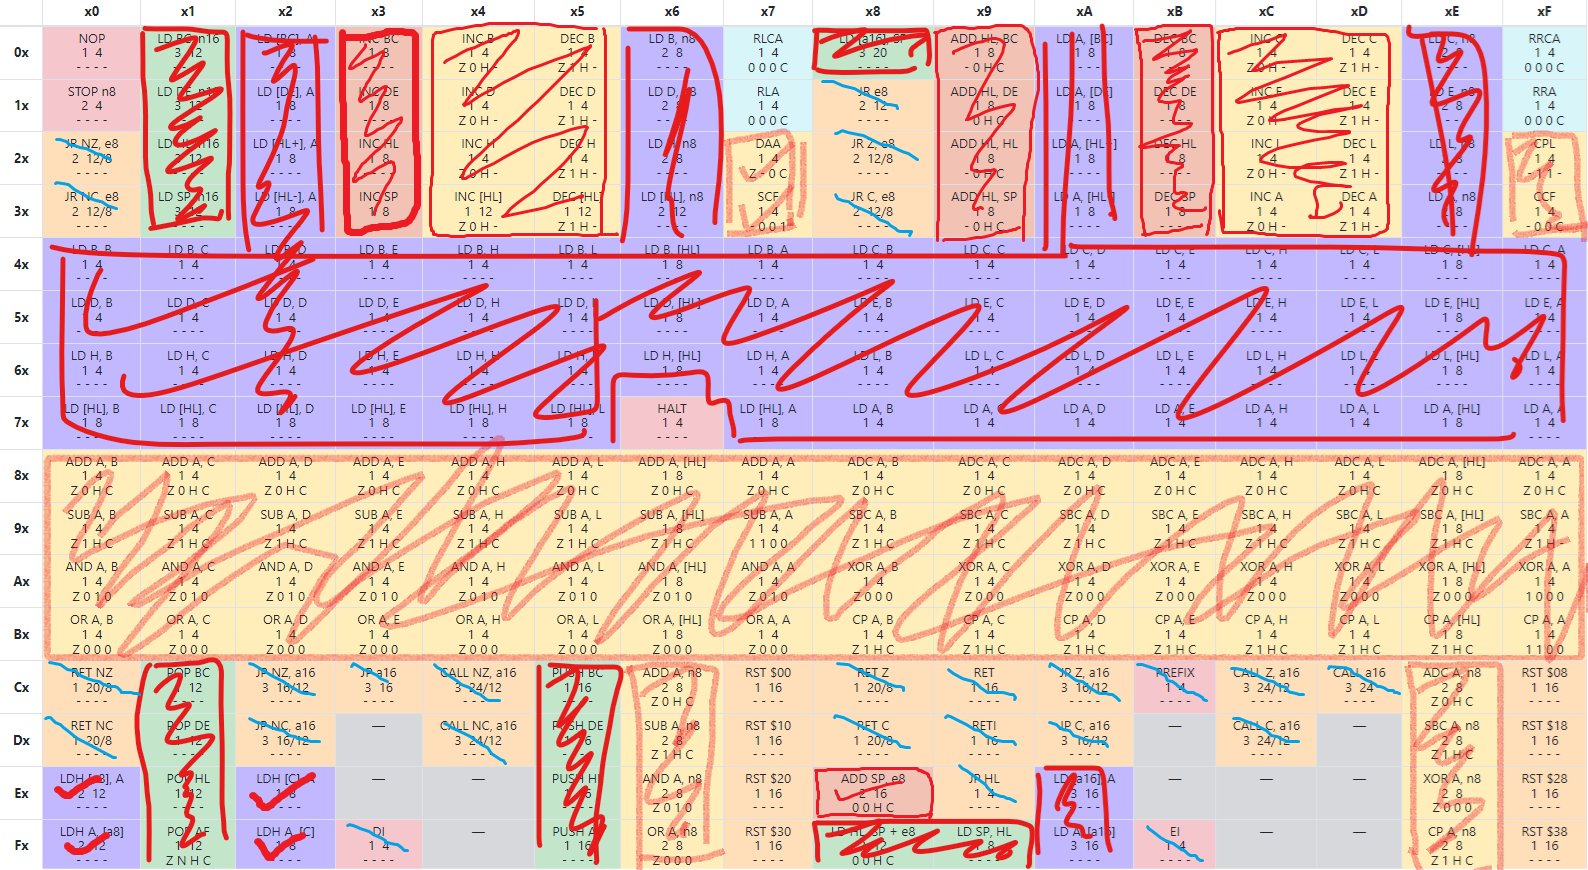
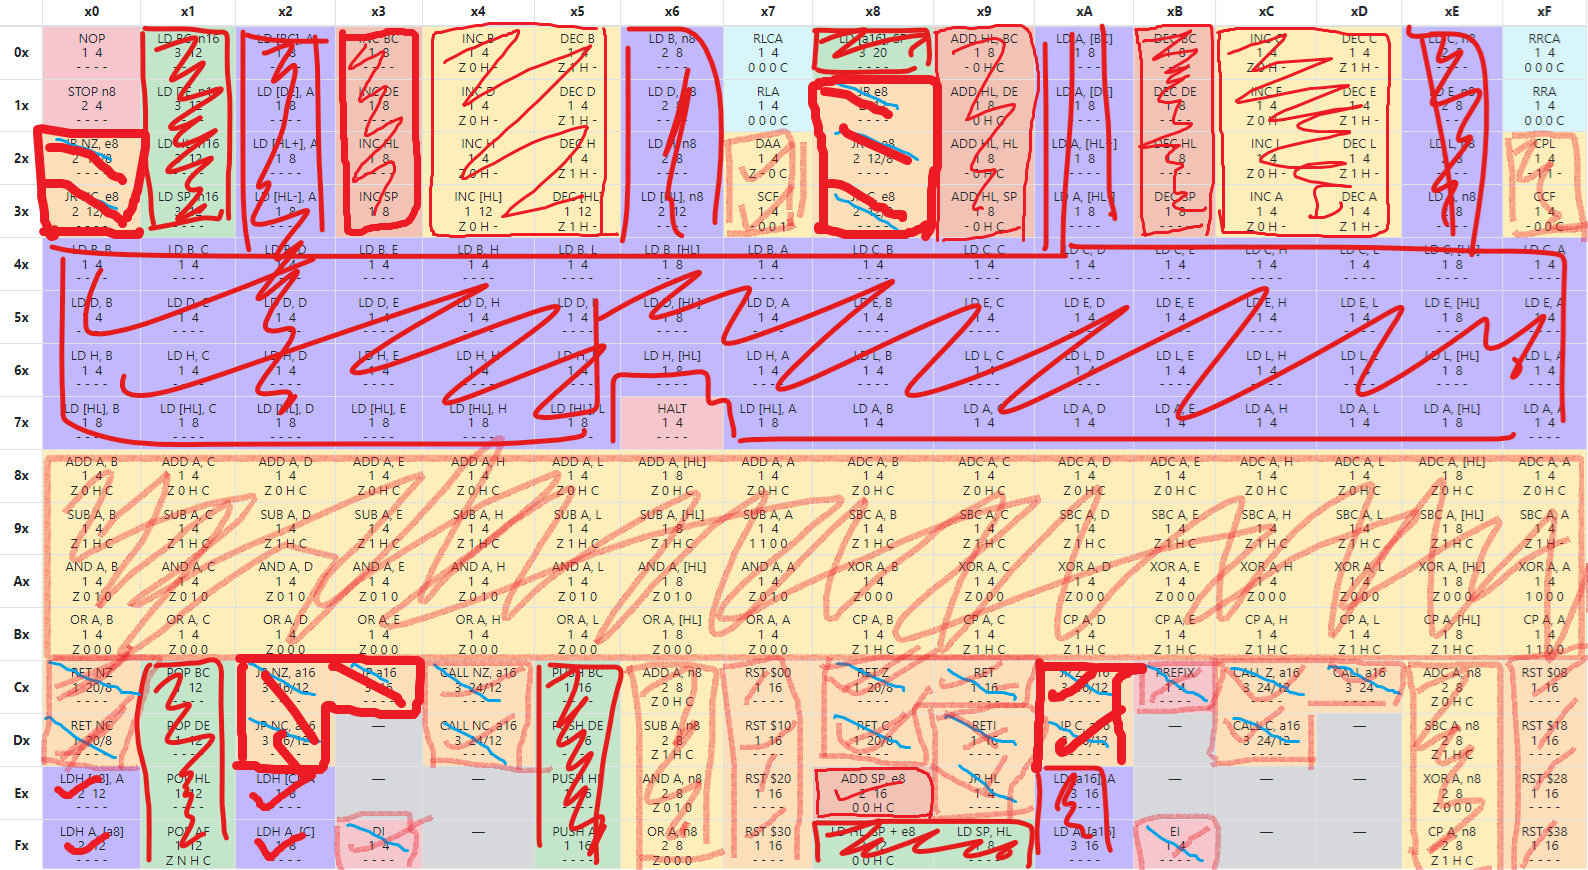
[SM83] All unprefixed opcodes done

diff --git a/SM83.cpp b/SM83.cpp
@@ -83,7 +83,7 @@ void SM83::clock() {
         if (opcode == 0xcb) {
             opcode = read(pc++);
             additional_clock_cycles = (this->*prefixed_opcode_lookup[opcode].operate)();
-            cycles = prefixed_opcode_lookup[opcode].cycles + additional_clock_cycles + 4; // + 4 is for the CB instruction cycles.
+            cycles = prefixed_opcode_lookup[opcode].cycles + additional_clock_cycles + prefixed_opcode_lookup[0xcb].cycles;
         } else {
             additional_clock_cycles = (this->*unprefixed_opcode_lookup[opcode].operate)();
             cycles = unprefixed_opcode_lookup[opcode].cycles + additional_clock_cycles;
@@ -541,6 +541,16 @@ uint8_t SM83::CALL(OperandName condition, Operand address) {
     return 12;
 }
 
+uint8_t SM83::RST(uint8_t address_lo) {
+    
+    PUSH({PC, true});
+    pc = (uint16_t)address_lo;
+
+    updateRegisters8();
+    return 0;
+
+}
+
 
 uint8_t SM83::RETURNFROMFUNCTION() {
     POP({PC, true});
@@ -639,7 +649,7 @@ uint8_t SM83::INC_D() { return PROCESS_ALU({D, true}, INC); }
 uint8_t SM83::DEC_D() { return PROCESS_ALU({D, true}, DEC); }
 uint8_t SM83::LD_D_n8() { return LD({D, true}, {N8, true}); }
 uint8_t SM83::RLA() { return 0; }
-uint8_t SM83::JR_e8() { return 0; }
+uint8_t SM83::JR_e8() { return JUMPTO({E8, true}); }
 uint8_t SM83::ADD_HL_DE() { return PROCESS_ALU16({HL, true}, {DE, true}, ADD); }
 uint8_t SM83::LD_A_aDE() { return LD({A, true}, {DE, false}); }
 uint8_t SM83::DEC_DE() { return PROCESS_ALU16({DE, true}, DEC); }
@@ -647,7 +657,7 @@ uint8_t SM83::INC_E() { return PROCESS_ALU({E, true}, INC); }
 uint8_t SM83::DEC_E() { return PROCESS_ALU({E, true}, DEC); }
 uint8_t SM83::LD_E_n8() { return LD({E, true}, {N8, true}); }
 uint8_t SM83::RRA() { return 0; }
-uint8_t SM83::JR_NZ_e8() { return 0; }
+uint8_t SM83::JR_NZ_e8() { return JUMPTO(NZ, {E8, true}); }
 uint8_t SM83::LD_HL_n16() { return LD16({HL, true}, {N16, true}); }
 uint8_t SM83::LD_aHLI_A() { return LD({HL, false, .increment=true}, {A, true}); }
 uint8_t SM83::INC_HL() { return PROCESS_ALU16({HL, true}, INC); }
@@ -655,7 +665,7 @@ uint8_t SM83::INC_H() { return PROCESS_ALU({H, true}, INC); }
 uint8_t SM83::DEC_H() { return PROCESS_ALU({H, true}, DEC); }
 uint8_t SM83::LD_H_n8() { return LD({H, true}, {N8, true}); }
 uint8_t SM83::DAA() { return PROCESS_ALU(enumDAA); }
-uint8_t SM83::JR_Z_e8() { return 0; }
+uint8_t SM83::JR_Z_e8() { return JUMPTO(Z, {E8, true}); }
 uint8_t SM83::ADD_HL_HL() { return PROCESS_ALU16({HL, true}, {HL, true}, ADD); }
 uint8_t SM83::LD_A_aHLI() { return LD({A, true}, {HL, false, .increment=true}); }
 uint8_t SM83::DEC_HL() { return PROCESS_ALU16({HL, true}, DEC); }
@@ -663,7 +673,7 @@ uint8_t SM83::INC_L() { return PROCESS_ALU({L, true}, INC); }
 uint8_t SM83::DEC_L() { return PROCESS_ALU({L, true}, DEC); }
 uint8_t SM83::LD_L_n8() { return LD({L, true}, {N8, true}); }
 uint8_t SM83::CPL() { return PROCESS_ALU(enumCPL); }
-uint8_t SM83::JR_NC_e8() { return 0; }
+uint8_t SM83::JR_NC_e8() { return JUMPTO(NC, {E8, true}); }
 uint8_t SM83::LD_SP_n16() { return LD16({SP, true}, {N16, true}); }
 uint8_t SM83::LD_aHLD_A() { return LD({HL, false, .decrement=true}, {A, true}); }
 uint8_t SM83::INC_SP() { return PROCESS_ALU16({SP, true}, INC); }
@@ -671,7 +681,7 @@ uint8_t SM83::INC_aHL() { return PROCESS_ALU({HL, false}, INC); }
 uint8_t SM83::DEC_aHL() { return PROCESS_ALU({HL, false}, DEC); }
 uint8_t SM83::LD_aHL_n8() { return LD({HL, false}, {N8, true}); }
 uint8_t SM83::SCF() { return PROCESS_ALU(enumSCF); }
-uint8_t SM83::JR_C_e8() { return 0; }
+uint8_t SM83::JR_C_e8() { return JUMPTO(C, {E8, true}); }
 uint8_t SM83::ADD_HL_SP() { return PROCESS_ALU16({HL, true}, {SP, true}, ADD); }
 uint8_t SM83::LD_A_aHLD() { return LD({A, true}, {HL, false, .decrement=true}); }
 uint8_t SM83::DEC_SP() { return PROCESS_ALU16({SP, true}, DEC); }
@@ -807,35 +817,35 @@ uint8_t SM83::CP_A_H() { return PROCESS_ALU({A, true}, {H, true}, CP); }
 uint8_t SM83::CP_A_L() { return PROCESS_ALU({A, true}, {L, true}, CP); }
 uint8_t SM83::CP_A_aHL() { return PROCESS_ALU({A, true}, {HL, false}, CP); }
 uint8_t SM83::CP_A_A() { return PROCESS_ALU({A, true}, {A, true}, CP); }
-uint8_t SM83::RET_NZ() { return 0; }
+uint8_t SM83::RET_NZ() { return RETURNFROMFUNCTION(NZ); }
 uint8_t SM83::POP_BC() { return POP({BC, true}); }
-uint8_t SM83::JP_NZ_a16() { return 0; }
-uint8_t SM83::JP_a16() { return 0; }
-uint8_t SM83::CALL_NZ_a16() { return 0; }
+uint8_t SM83::JP_NZ_a16() { return JUMPTO(NZ, {A16, true}); }
+uint8_t SM83::JP_a16() { return JUMPTO({A16, true}); }
+uint8_t SM83::CALL_NZ_a16() { return CALL(NZ, {A16, true}); }
 uint8_t SM83::PUSH_BC() { return PUSH({BC, true}); }
 uint8_t SM83::ADD_A_n8() { return PROCESS_ALU({A, true}, {N8, true}, ADD); }
 uint8_t SM83::RST_00() { return 0; }
-uint8_t SM83::RET_Z() { return 0; }
+uint8_t SM83::RET_Z() { return RETURNFROMFUNCTION(Z); }
 uint8_t SM83::RET() { return 0; }
-uint8_t SM83::JP_Z_a16() { return 0; }
+uint8_t SM83::JP_Z_a16() { return JUMPTO(Z, {A16, true}); }
 uint8_t SM83::PREFIX() { return 0; }
-uint8_t SM83::CALL_Z_a16() { return 0; }
-uint8_t SM83::CALL_a16() { return 0; }
+uint8_t SM83::CALL_Z_a16() { return CALL(Z, {A16, true}); }
+uint8_t SM83::CALL_a16() { return CALL({A16, true}); }
 uint8_t SM83::ADC_A_n8() { return PROCESS_ALU({A, true}, {N8, true}, ADC); }
 uint8_t SM83::RST_08() { return 0; }
-uint8_t SM83::RET_NC() { return 0; }
+uint8_t SM83::RET_NC() { return RETURNFROMFUNCTION(NC); }
 uint8_t SM83::POP_DE() { return POP({DE, true}); }
-uint8_t SM83::JP_NC_a16() { return 0; }
+uint8_t SM83::JP_NC_a16() { return JUMPTO(NC, {A16, true}); }
 uint8_t SM83::ILLEGAL_D3() { return 0; }
-uint8_t SM83::CALL_NC_a16() { return 0; }
+uint8_t SM83::CALL_NC_a16() { return CALL(NC, {A16, true}); }
 uint8_t SM83::PUSH_DE() { return PUSH({DE, true}); }
 uint8_t SM83::SUB_A_n8() { return PROCESS_ALU({A, true}, {N8, true}, SUB); }
 uint8_t SM83::RST_10() { return 0; }
-uint8_t SM83::RET_C() { return 0; }
-uint8_t SM83::RETI() { return 0; }
-uint8_t SM83::JP_C_a16() { return 0; }
+uint8_t SM83::RET_C() { return RETURNFROMFUNCTION(C); }
+uint8_t SM83::RETI() { return RETURNANDEI(); }
+uint8_t SM83::JP_C_a16() { return JUMPTO(C, {A16, true}); }
 uint8_t SM83::ILLEGAL_DB() { return 0; }
-uint8_t SM83::CALL_C_a16() { return 0; }
+uint8_t SM83::CALL_C_a16() { return CALL(C, {A16, true}); }
 uint8_t SM83::ILLEGAL_DD() { return 0; }
 uint8_t SM83::SBC_A_n8() { return PROCESS_ALU({A, true}, {N8, true}, SBC); }
 uint8_t SM83::RST_18() { return 0; }
@@ -848,7 +858,7 @@ uint8_t SM83::PUSH_HL() { return PUSH({HL, true}); }
 uint8_t SM83::AND_A_n8() { return PROCESS_ALU({A, true}, {N8, true}, AND); }
 uint8_t SM83::RST_20() { return 0; }
 uint8_t SM83::ADD_SP_e8() { return PROCESS_ALU16({SP, true}, {E8, true}, ADD); }
-uint8_t SM83::JP_HL() { return 0; }
+uint8_t SM83::JP_HL() { return JUMPTO({HL, true}); }
 uint8_t SM83::LD_aa16_A() { return LD({A16, false}, {A, true}); }
 uint8_t SM83::ILLEGAL_EB() { return 0; }
 uint8_t SM83::ILLEGAL_EC() { return 0; }
@@ -858,7 +868,7 @@ uint8_t SM83::RST_28() { return 0; }
 uint8_t SM83::LDH_A_aa8() { return LDH({A, true}, {A8, false}); }
 uint8_t SM83::POP_AF() { return POP({AF, true}); }
 uint8_t SM83::LDH_A_aC() { return LDH({A, true}, {C, false}); }
-uint8_t SM83::DI() { return 0; }
+uint8_t SM83::DI() { return DISABLEINTERRUPTS(); }
 uint8_t SM83::ILLEGAL_F4() { return 0; }
 uint8_t SM83::PUSH_AF() { return PUSH({AF, true}); }
 uint8_t SM83::OR_A_n8() { return PROCESS_ALU({A, true}, {N8, true}, OR); }
@@ -866,7 +876,7 @@ uint8_t SM83::RST_30() { return 0; }
 uint8_t SM83::LD_HL_SPI_e8() { return LD_HL_SPDD(); }
 uint8_t SM83::LD_SP_HL() { return LD16({SP, true}, {HL, true}); }
 uint8_t SM83::LD_A_aa16() { return LD({A, true}, {A16, false}); }
-uint8_t SM83::EI() { return 0; }
+uint8_t SM83::EI() { return ENABLEINTERRUPTS(); }
 uint8_t SM83::ILLEGAL_FC() { return 0; }
 uint8_t SM83::ILLEGAL_FD() { return 0; }
 uint8_t SM83::CP_A_n8() { return PROCESS_ALU({A, true}, {N8, true}, CP); }

diff --git a/codewriter.py b/codewriter.py
@@ -109,6 +109,80 @@ for i in unpre:
         function_definition =  makedefinition(function_name, '{ return LDH(' + fargs[0] + ', ' + fargs[1] + '); }')
 
 
+    # JP
+    if function_name.startswith("JP_"):
+        args = unpre[i]['operands']
+        if len(args) == 2:
+            fargs = args.copy()
+            fargs[0] = args[0]['name'].upper()
+            fargs[1] = '{' + args[1]['name'].upper() + ', ' + str(args[1]['immediate']).lower() + '}'
+
+            function_definition = makedefinition(function_name, '{ return JUMPTO(' + fargs[0] + ', ' + fargs[1] + '); }')
+        elif len(args) == 1:
+            fargs = args.copy()
+            fargs[0] = '{' + args[0]['name'].upper() + ', ' + str(args[0]['immediate']).lower() + '}'
+
+            function_definition = makedefinition(function_name, '{ return JUMPTO(' + fargs[0] + '); }')
+
+    # JR
+    if function_name.startswith("JR_"):
+        args = unpre[i]['operands']
+        if len(args) == 2:
+            fargs = args.copy()
+            fargs[0] = args[0]['name'].upper()
+            fargs[1] = '{' + args[1]['name'].upper() + ', ' + str(args[1]['immediate']).lower() + '}'
+
+            function_definition = makedefinition(function_name, '{ return JUMPTO(' + fargs[0] + ', ' + fargs[1] + '); }')
+        elif len(args) == 1:
+            fargs = args.copy()
+            fargs[0] = '{' + args[0]['name'].upper() + ', ' + str(args[0]['immediate']).lower() + '}'
+
+            function_definition = makedefinition(function_name, '{ return JUMPTO(' + fargs[0] + '); }')
+
+    # CALL
+    if function_name.startswith("CALL_"):
+        args = unpre[i]['operands']
+        if len(args) == 2:
+            fargs = args.copy()
+            fargs[0] = args[0]['name'].upper()
+            fargs[1] = '{' + args[1]['name'].upper() + ', ' + str(args[1]['immediate']).lower() + '}'
+
+            function_definition = makedefinition(function_name, '{ return CALL(' + fargs[0] + ', ' + fargs[1] + '); }')
+        elif len(args) == 1:
+            fargs = args.copy()
+            fargs[0] = '{' + args[0]['name'].upper() + ', ' + str(args[0]['immediate']).lower() + '}'
+
+            function_definition = makedefinition(function_name, '{ return CALL(' + fargs[0] + '); }') 
+
+    # RET
+    if function_name.startswith("RET_"):
+        args = unpre[i]['operands']
+        if len(args) == 1:
+            fargs = args.copy()
+            fargs[0] = args[0]['name'].upper()
+
+            function_definition = makedefinition(function_name, '{ return RETURNFROMFUNCTION(' + fargs[0] + '); }')
+        elif len(args) == 0:
+            function_definition = makedefinition(function_name, '{ return RETURNFROMFUNCTION(); }')
+
+    # RETI
+    if function_name.startswith("RETI"):
+        function_definition = makedefinition(function_name, '{ return RETURNANDEI(); }')
+    
+    # RST
+    if function_definition.startswith("RST_"):
+        args = unpre[i]['operands']
+        fargs = args.copy()
+        fargs[0] = args[0]['name'].upper().replace("$", "0x")
+
+        function_definition = makedefinition(function_name, '{ return RST(' + fargs[0] + '); }')
+    
+    # EI AND DI
+    if function_name.startswith("EI"):
+        function_definition = makedefinition(function_name, '{ return ENABLEINTERRUPTS(); }')
+    if function_name.startswith("DI"):
+        function_definition = makedefinition(function_name, '{ return DISABLEINTERRUPTS(); }')
+
     # ALU STUFF
     # all INC and DEC
     if (function_name.startswith("INC_") or function_name.startswith("DEC_")):

diff --git a/SM83.h b/SM83.h
@@ -169,6 +169,9 @@ private:
     uint8_t PUSH_AF(); uint8_t OR_A_n8(); uint8_t RST_30(); uint8_t LD_HL_SPI_e8(); uint8_t LD_SP_HL(); uint8_t LD_A_aa16(); uint8_t EI();
     uint8_t ILLEGAL_FC(); uint8_t ILLEGAL_FD(); uint8_t CP_A_n8(); uint8_t RST_38(); 
 
+    // PREFIXED
+    uint8_t RLC_B();
+
 
     // instruction wrappers internals;
     uint8_t LD(Operand target, Operand source);
@@ -188,13 +191,13 @@ private:
     uint8_t JUMPTO(OperandName condition, Operand address);
     uint8_t CALL(Operand address);
     uint8_t CALL(OperandName condition, Operand address);
+    uint8_t RST(uint8_t address_lo);
     uint8_t RETURNFROMFUNCTION();
     uint8_t RETURNFROMFUNCTION(OperandName condition);
 
     uint8_t ENABLEINTERRUPTS();
     uint8_t DISABLEINTERRUPTS();
     uint8_t RETURNANDEI();
-
 
 private:
     // these are technically core functions, but they are called by wrapping core functions 
